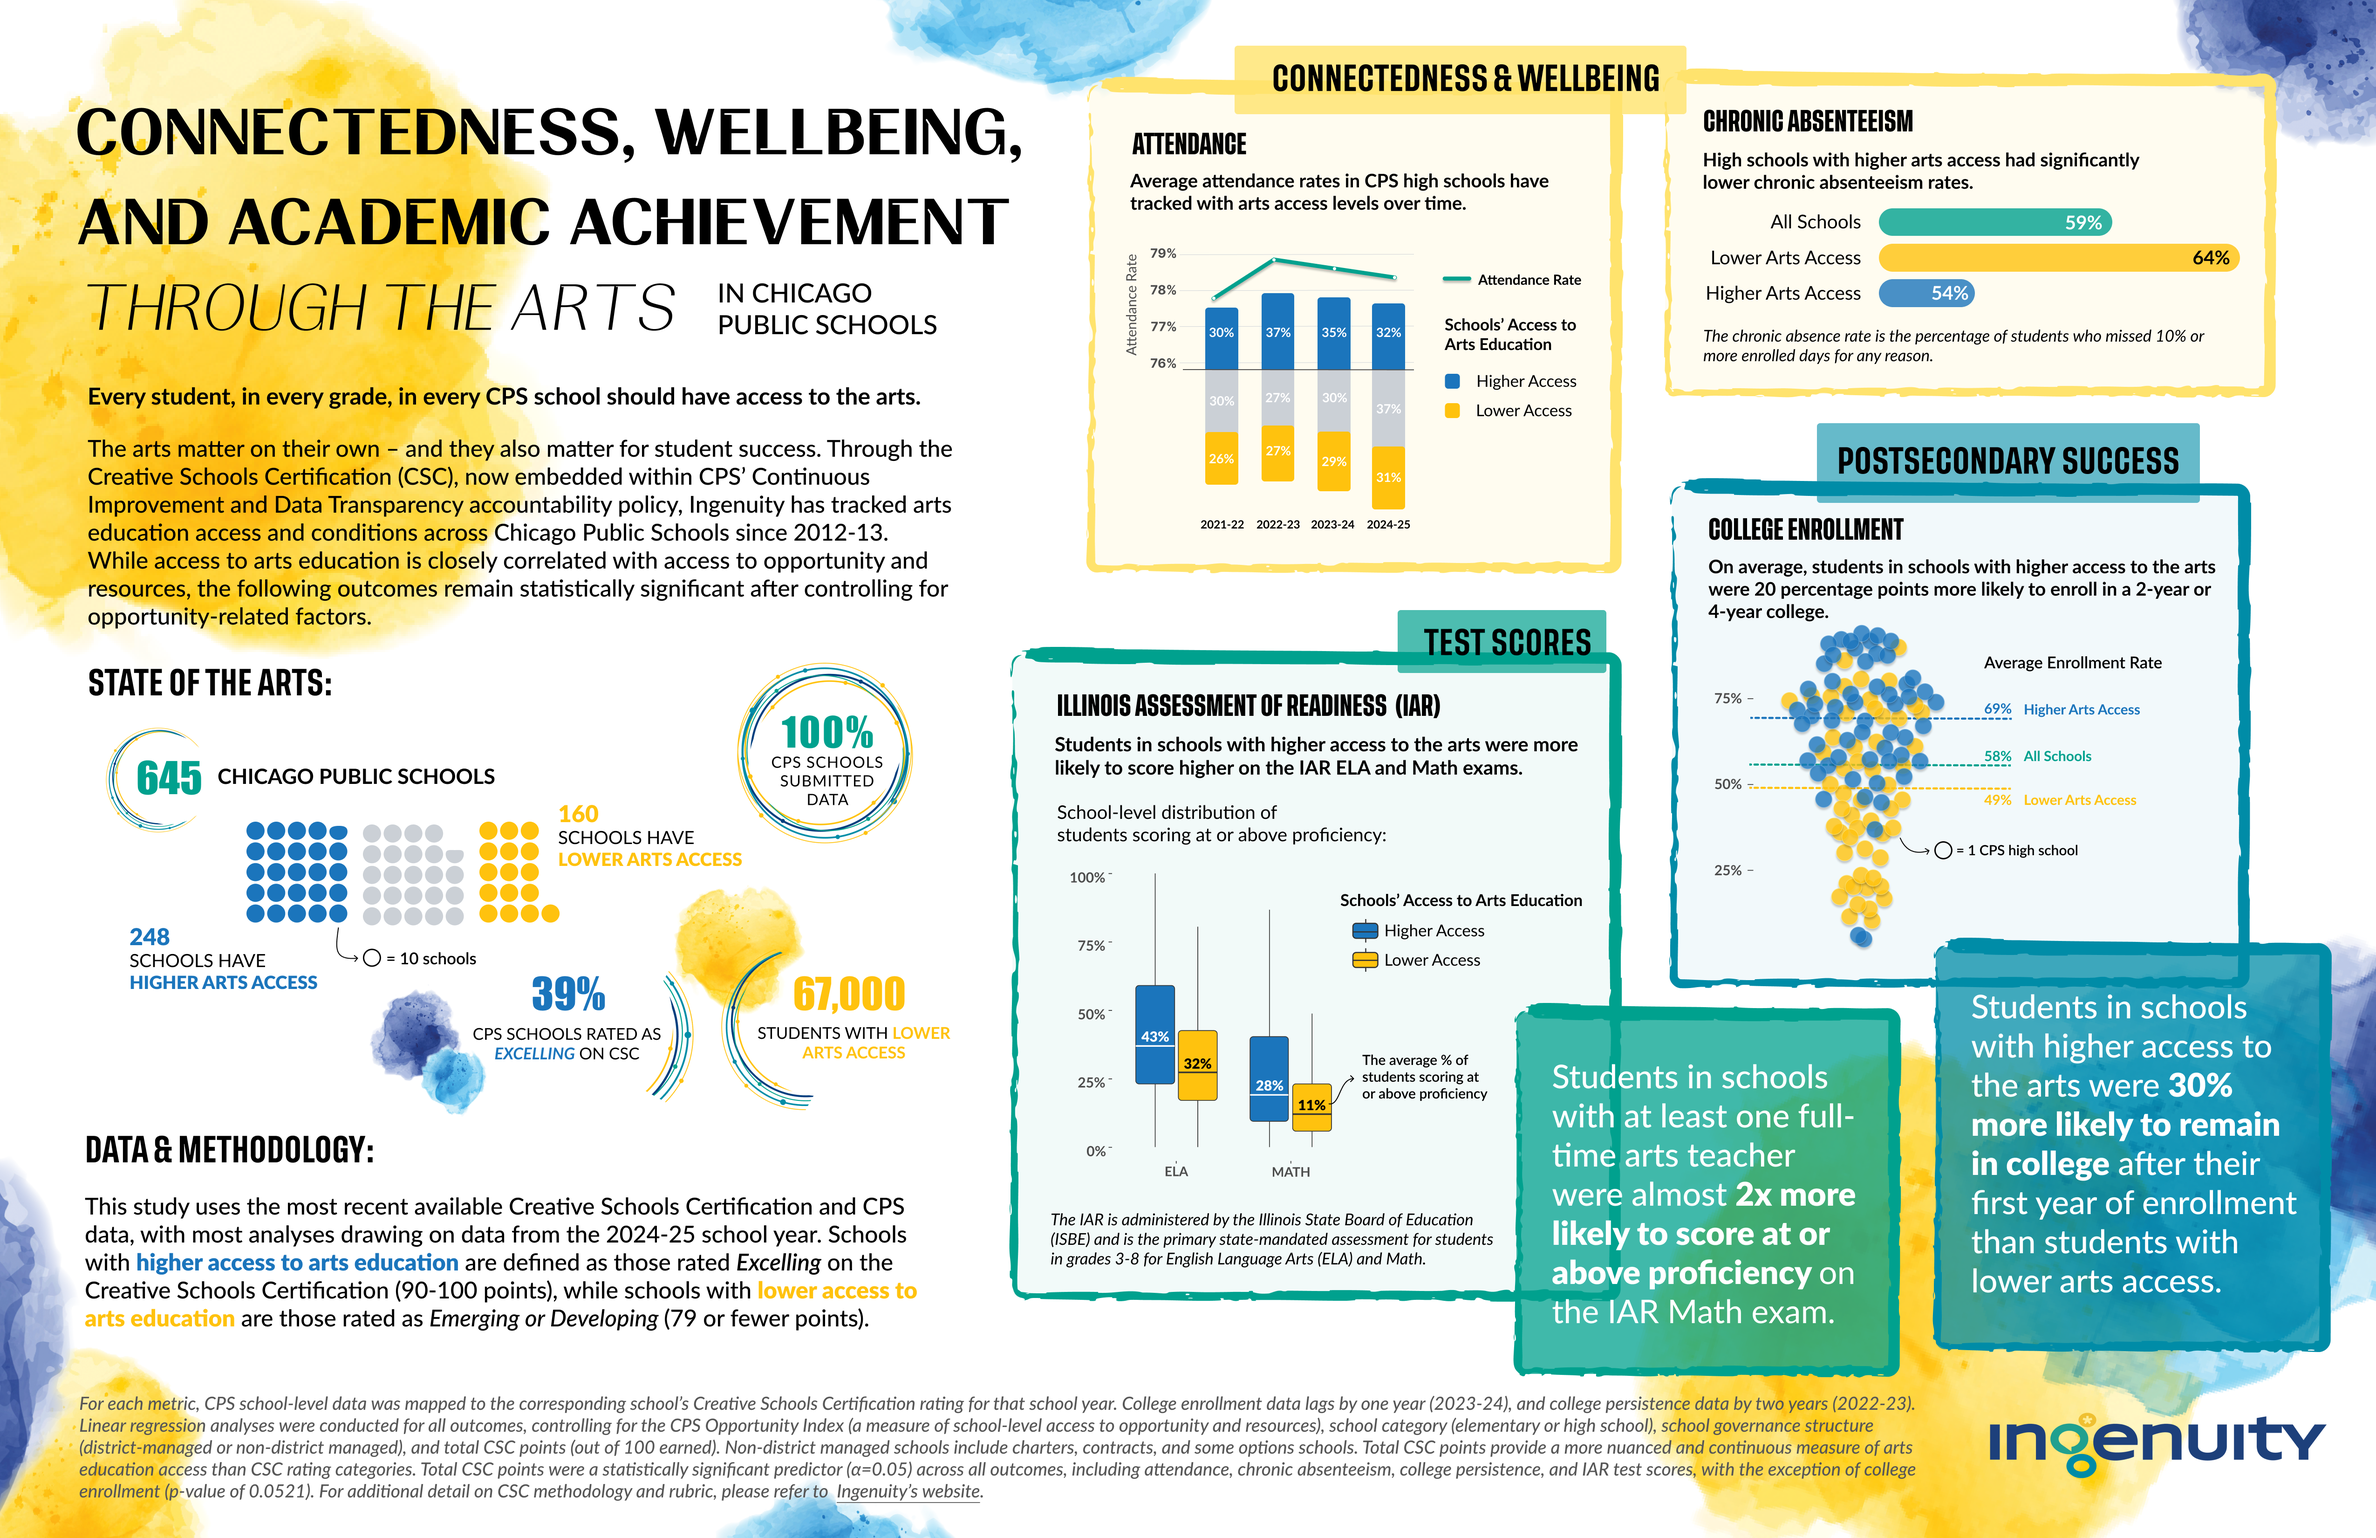
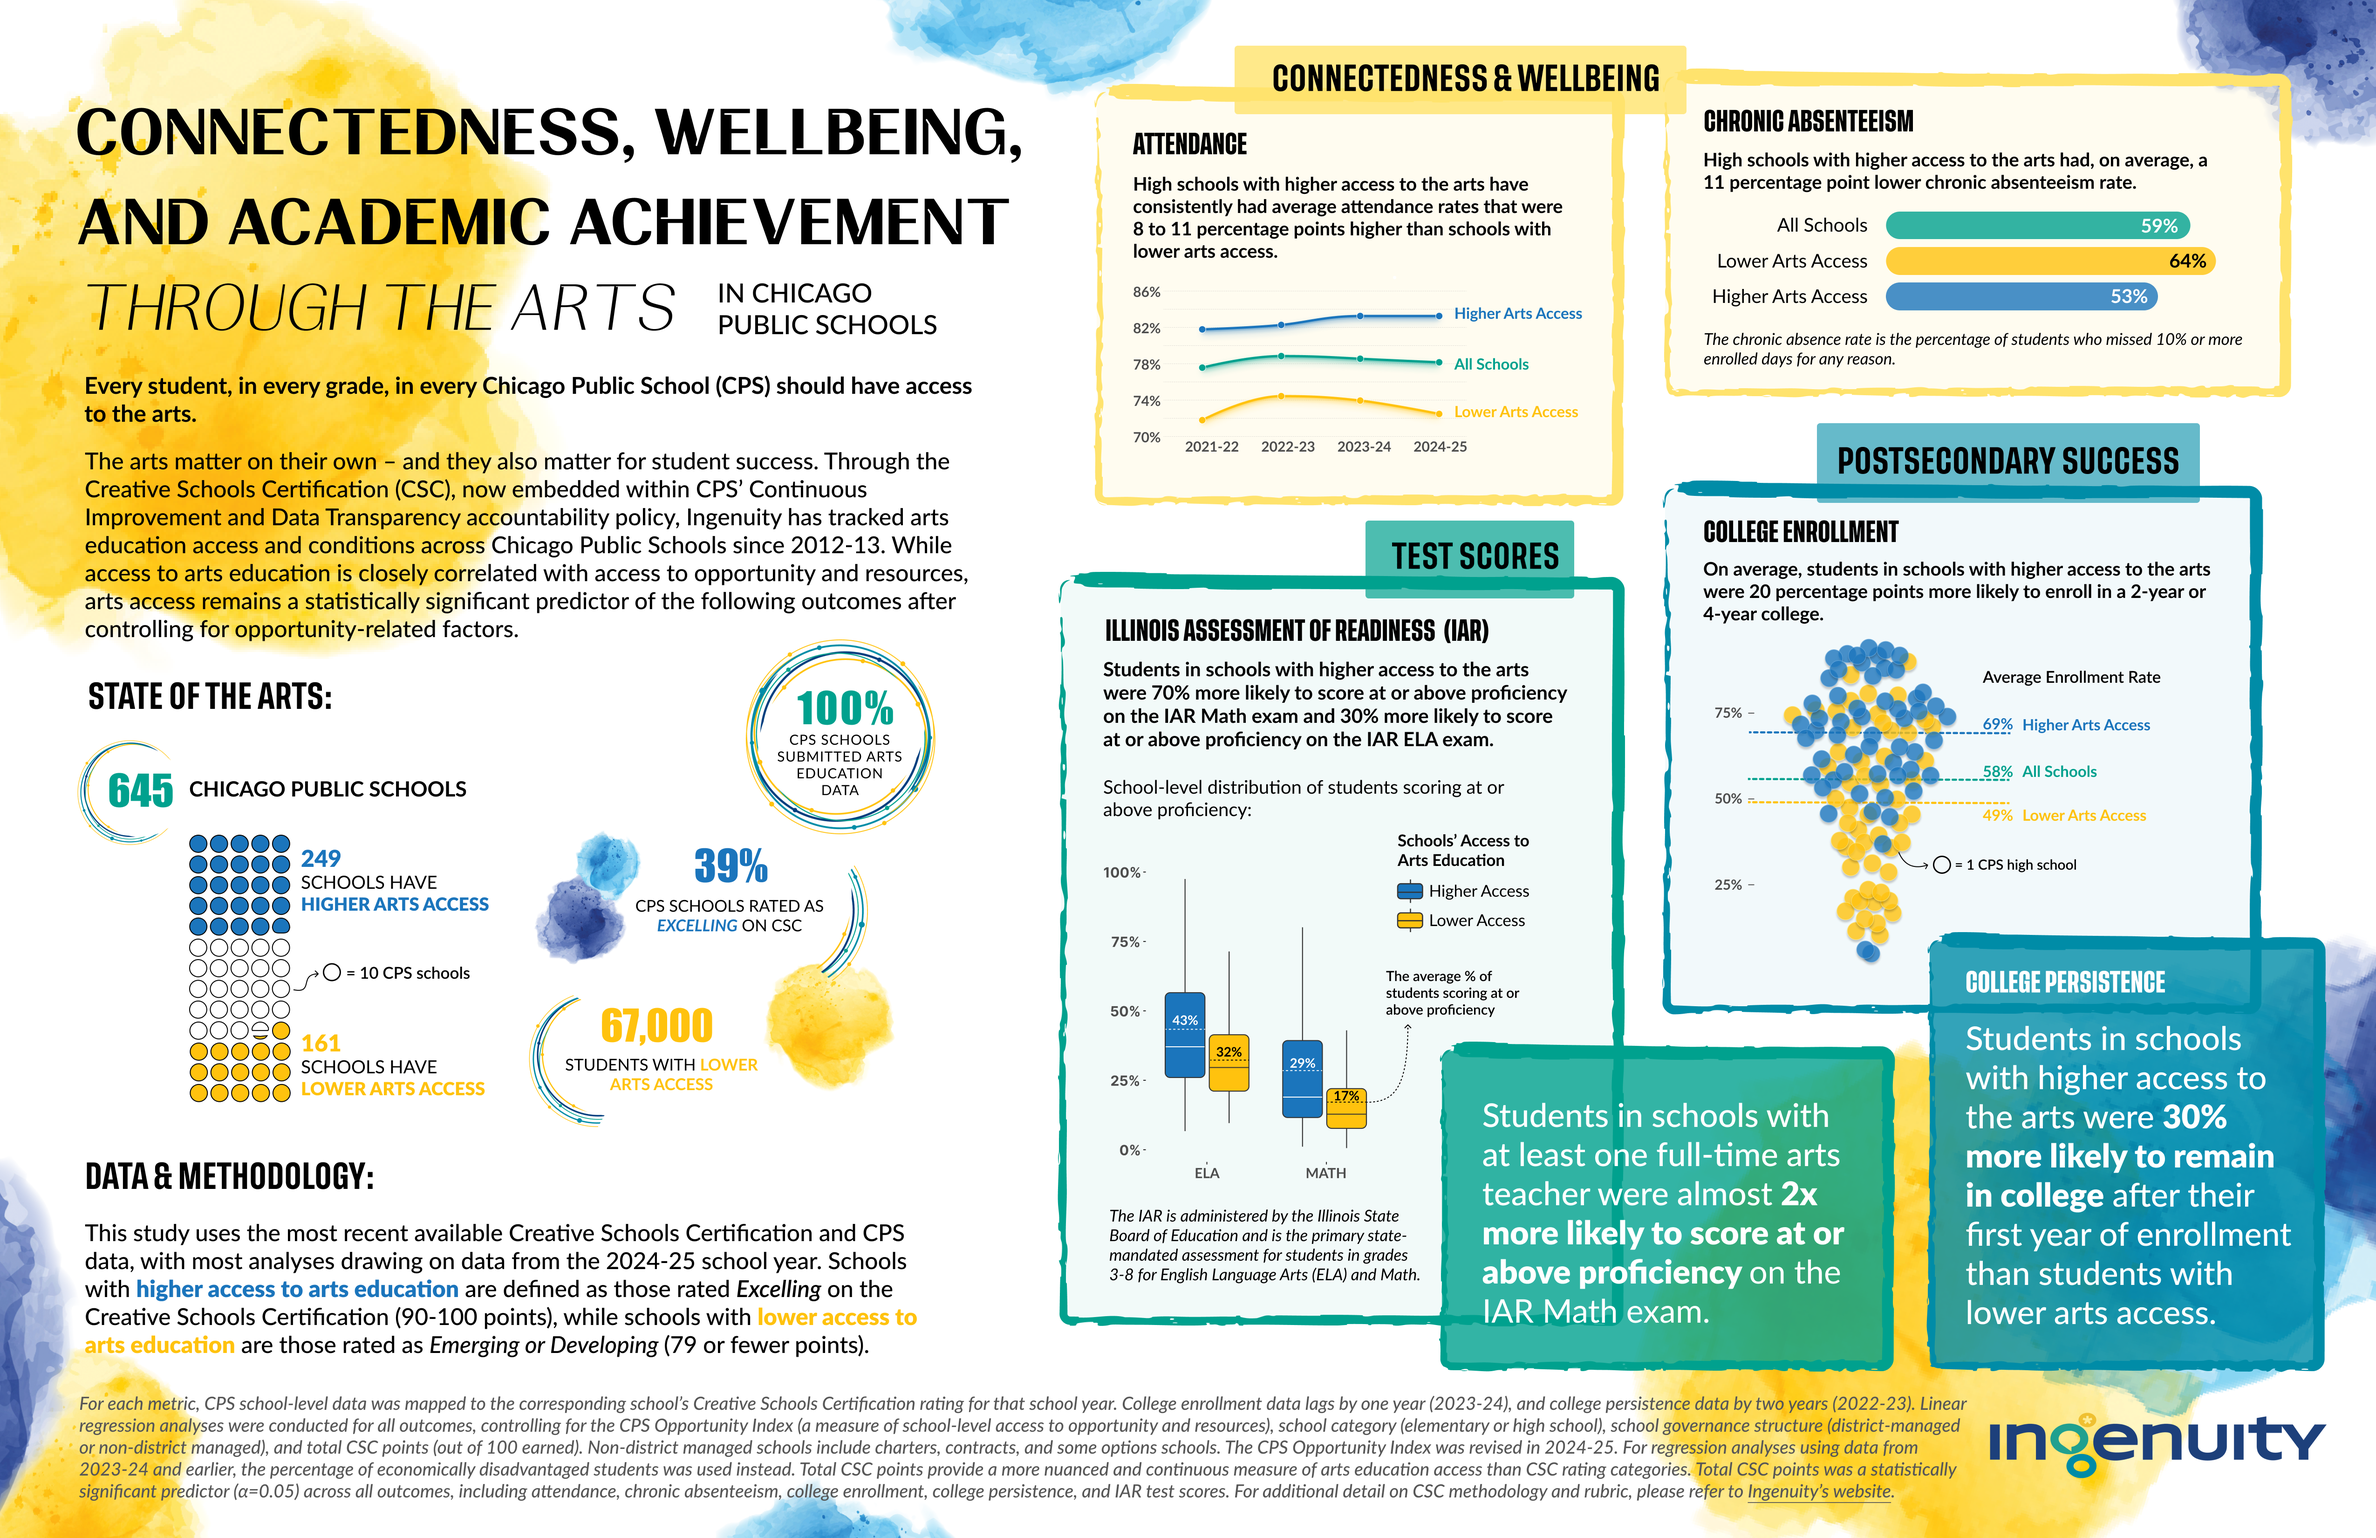
update case for arts image and remove police data project

diff --git a/static/data/projects.ts b/static/data/projects.ts
@@ -65,12 +65,12 @@ export const projects: Project[] = [
         technologies: ["R", "Figma"],
         hashtags: ["#dataviz", "informationdesign", "#dataanalysis", "#visualdesign"],
         link: "",
-        desc_short: "A static one-page infographic poster showing the impact of arts education on the academic achievement outcomes of students in Chicago Public Schools.",
+        desc_short: "A one-page infographic poster showing the impact of arts education on the academic achievement outcomes of students in Chicago Public Schools.",
         desc_long: [
             `<b><i>How does access to arts education affect student engagement and academic outcomes?</i></b>`,
             "A work in progress of a static one-page infographic poster showing the relationship between arts education and academic outcomes of students in Chicago Public Schools. It will be used to advocate for arts-supportive policy and fundraising.", 
             "Ingenuity is a nonprofit organization based in Chicago, dedicated to ensuring all students in Chicago Public Schools (CPS) have access to high-quality arts education. Ingenuity is the leading arts education data authority in Chicago, collecting and analyzing CPS school-level data to influence sector-wide decision-making, support arts-supportive policies, and improve resource distribution.",
-            "<i>To be published in print and digital at the end of July 2026.</i>"
+            "<i>To be published in print and digital in August 2026.</i>"
         ],
         responsibilities: ["Story design", "visual design", "data analysis", "data visualization design & development"],
         internalSlug: "project-case-for-arts",
@@ -170,7 +170,8 @@ export const projects: Project[] = [
         hashtags: ["dataviz", "dataanalysis", "investigation", "personalproject"],
         link: "https://mindalynworld.github.io/portfolio/projects/police-shootings",
         desc_short: "Should you call the police to de-escalate your mental health emergency? The data says no. This piece is a work in progress, showing an initial exploration of the Washington Post's police shootings database using various data visualizations to investigate the role mental illness plays in these shootings.",
-        responsibilities: ["Everything"]
+        responsibilities: ["Everything"],
+        exclude: true
     },
 
 ]
